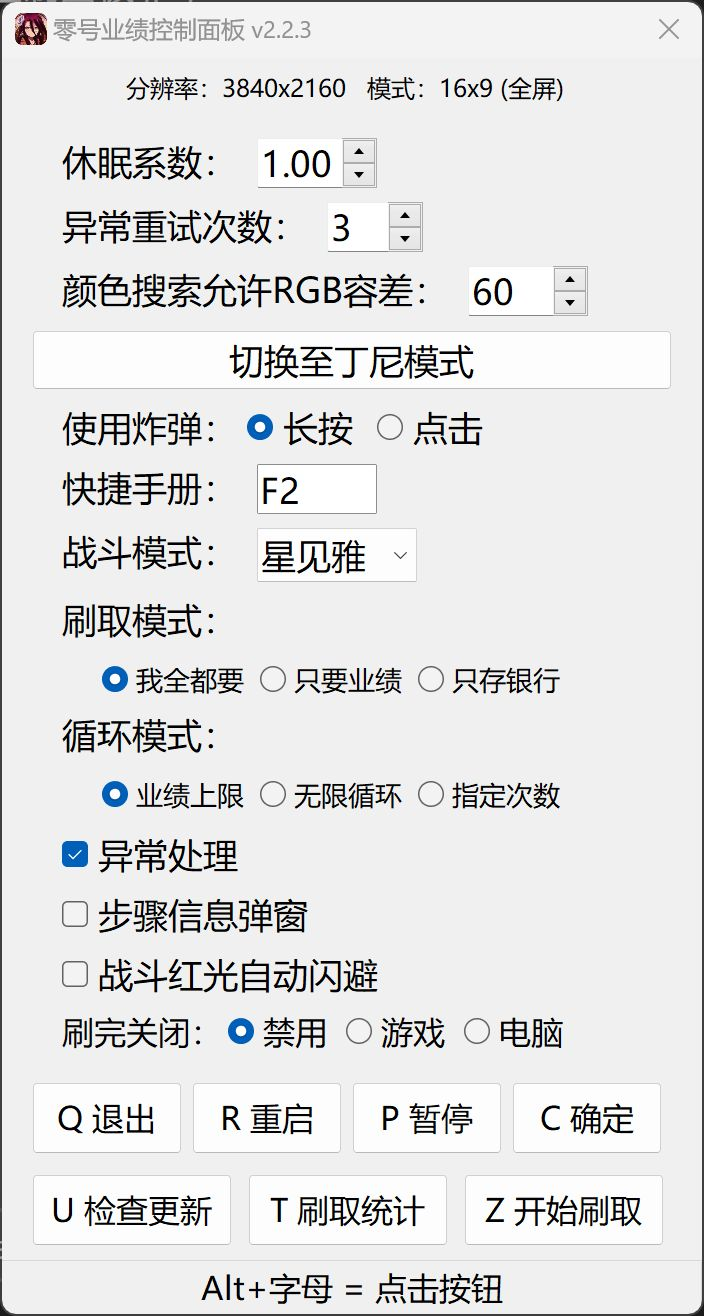
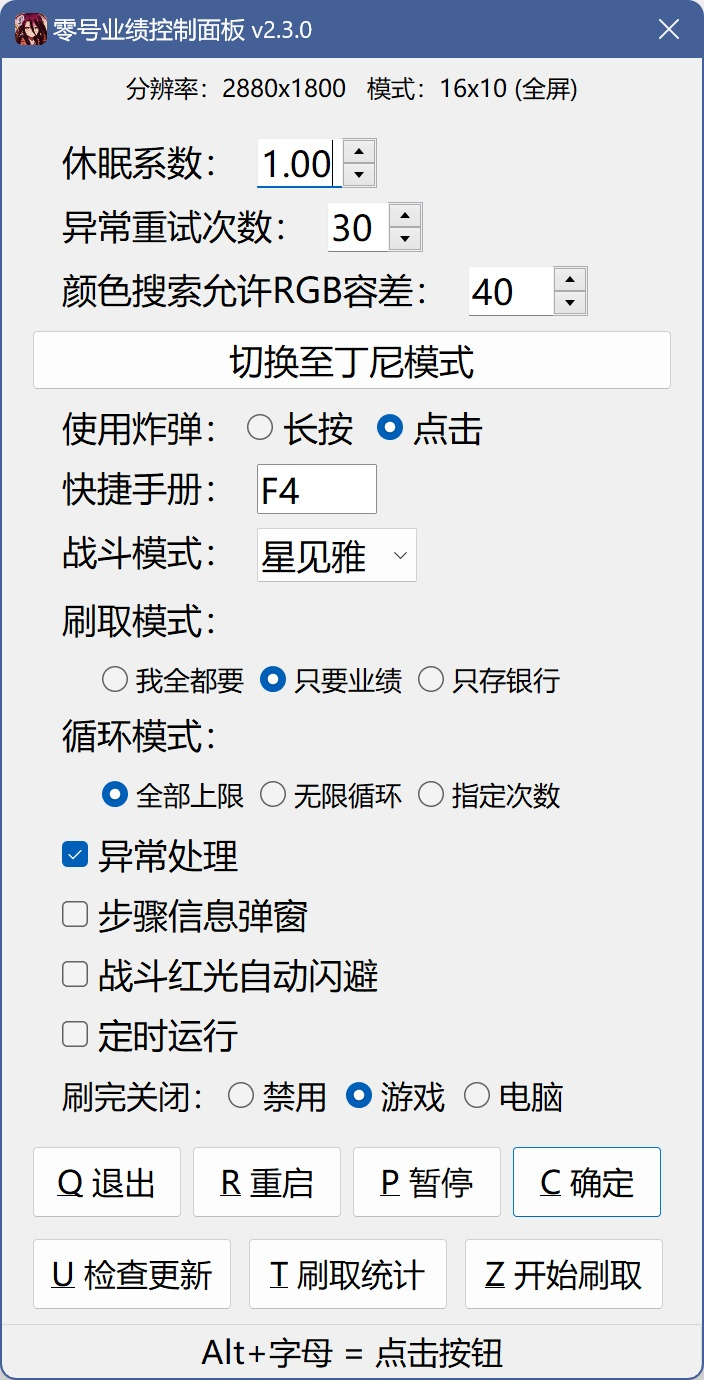
新增定时运行功能；修复16x10比例业绩模式战斗结算识别

diff --git a/README.md b/README.md
@@ -26,7 +26,7 @@
 
 ## 下载方法
 
-> PS: 程序报毒系正常现象，担心的话可以跑源码或者自行编译，怕别用用别怕
+> PS: 程序报毒系正常现象，担心的话可以跑源码或者自行编译；也不会导致封号，用别怕怕别用
 
 选择其一即可：
 
@@ -56,6 +56,7 @@
     > <br>**异常处理**：关闭后，任何意料之外的情况都将直接结束刷取并抛出错误，用于排查错误
     > <br>**步骤信息弹窗**：是否输出刷取过程中每个步骤的信息弹窗，用于排查错误
     > <br>**战斗红光自动闪避**：开启此模式后：业绩模式战斗期间会识别红光进行闪避；战斗期间CPU占用会略微提高；代理人事件会选择取消接应。效果受RGB容差影响，推荐在战斗时长>30s（游戏内计时，不含动画）的情况下开启，自行测试按需开关
+    > <br>**定时运行**：延时运行，启用并运行后将在指定时:分启动游戏并运行刷取脚本
     > <br>**刷完关闭**：业绩/丁尼达上限/达指定刷取次数 时关闭游戏/电脑；开启无限循环后此项无效
     > <br>**退出**：退出脚本
     > <br>**重启**：重启脚本，修改缩放、分辨率后建议重启脚本
